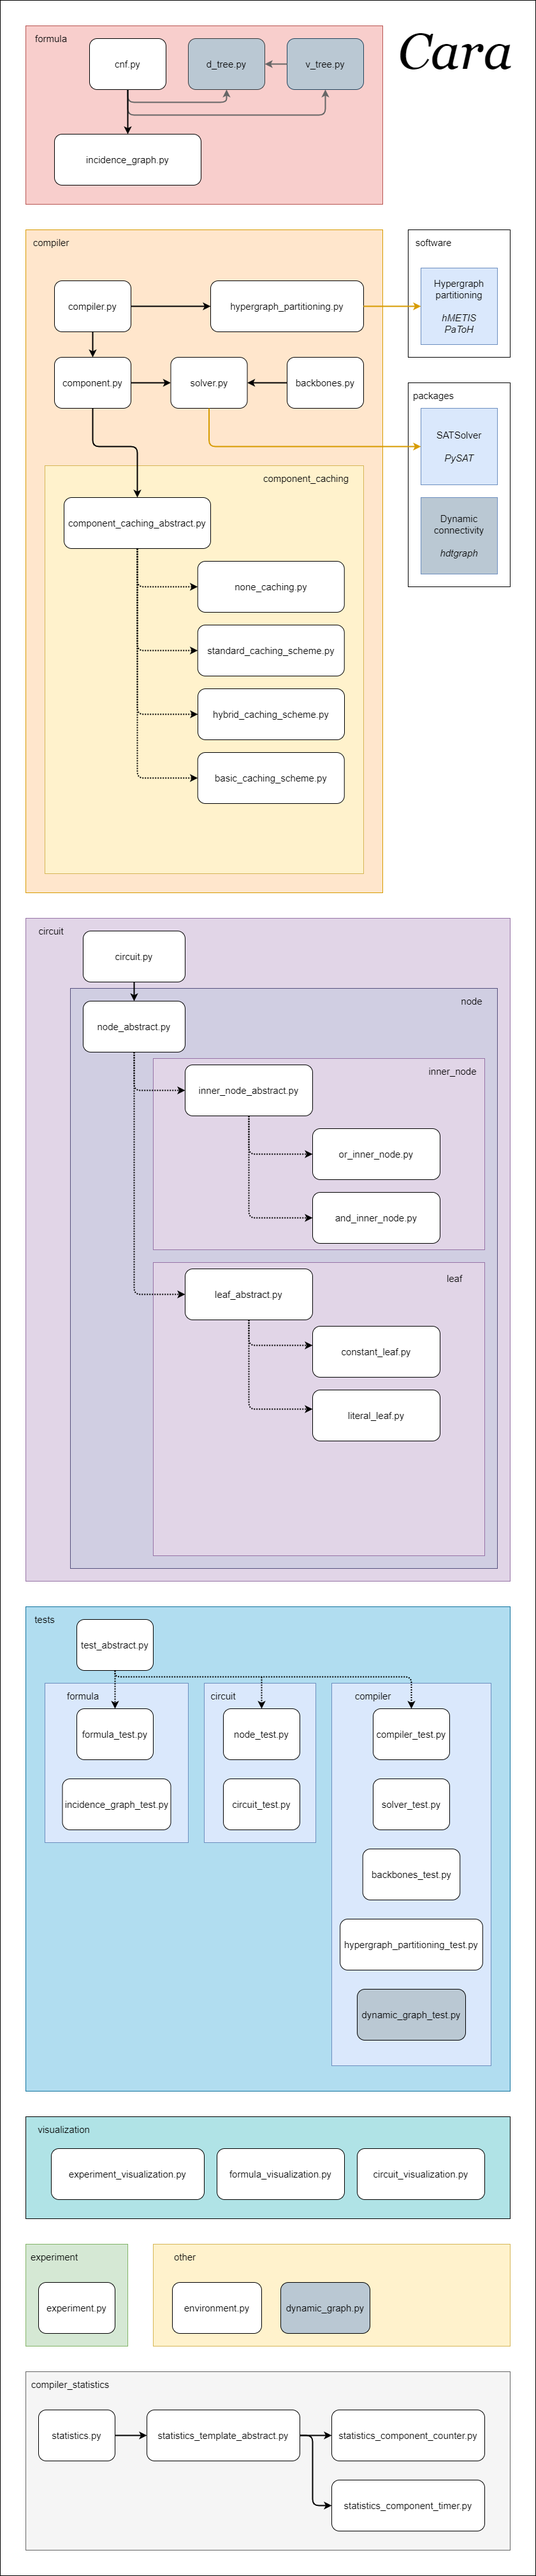
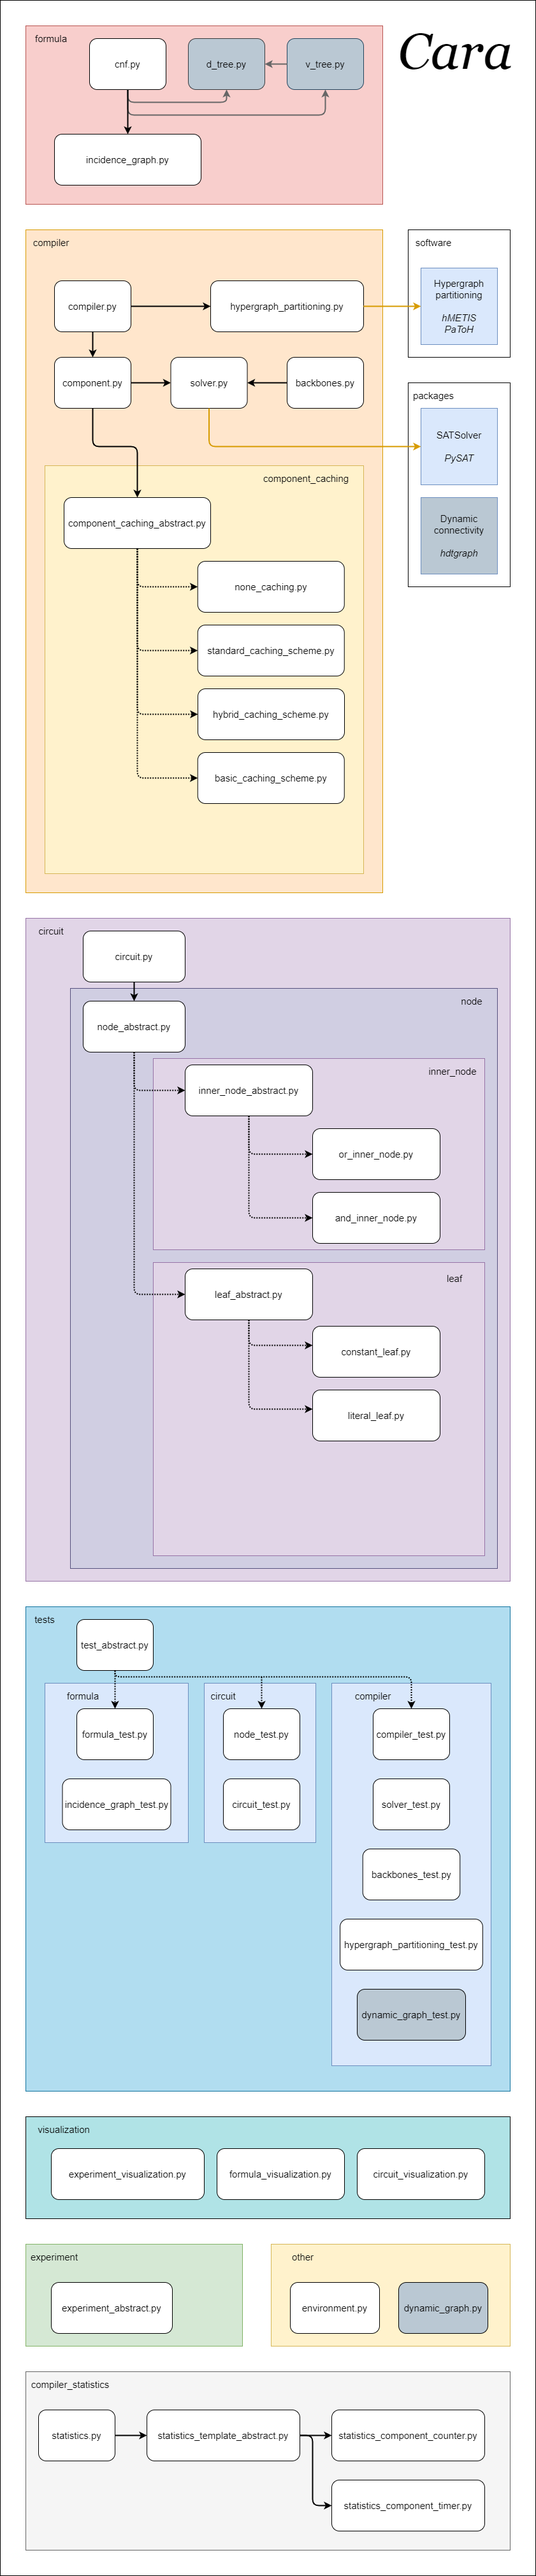
experiment_abstract.py

Changed region(s): [[0.2164, 0.8731, 0.7111, 0.9354], [0.742, 0.8731, 0.9275, 0.9042], [0.0618, 0.8731, 0.1237, 0.9042]]

diff --git a/experiment/experiment_abstract.py b/experiment/experiment_abstract.py
@@ -1,0 +1,218 @@
+# Import
+import os
+import pickle
+import ctypes
+import warnings
+import threading
+from abc import ABC
+from pathlib import Path
+from datetime import timedelta
+from compiler.compiler import Compiler
+from typing import List, Tuple, Union, TypeVar
+from compiler_statistics.statistics import Statistics
+
+# Import exception
+import exception.cara_exception as c_exception
+
+# Import enum
+import compiler.enum.sat_solver_enum as ss_enum
+import compiler.enum.implied_literals_enum as il_enum
+import compiler.component_caching.component_caching_enum as cc_enum
+import compiler.enum.hypergraph_partitioning.hypergraph_partitioning_cache_enum as hpc_enum
+import compiler.enum.hypergraph_partitioning.hypergraph_partitioning_software_enum as hps_enum
+import compiler.enum.hypergraph_partitioning.hypergraph_partitioning_weight_type_enum as hpwt_enum
+import compiler.enum.hypergraph_partitioning.hypergraph_partitioning_variable_simplification_enum as hpvs_enum
+
+# Type
+TExperimentThread = TypeVar("TExperimentThread", bound="ExperimentThread")
+
+
+class ExperimentAbstract(ABC):
+    """
+    Experiment
+    """
+
+    """
+    Private bool save_circuit
+    Private str experiment_name
+    Private timedelta total_time
+    Private Path log_directory_path
+    Private timedelta timeout_experiment
+    
+    Protected List<Tuple<str, str>> files
+    """
+
+    def __init__(self, experiment_name: str, directory_path: [str, Path], timeout_experiment: Union[timedelta, None] = None,
+                 log_directory_path: Union[str, Path, None] = None, save_circuit: bool = False):
+        self.__save_circuit: bool = save_circuit
+        self.__experiment_name: str = experiment_name
+        self.__total_time: timedelta = timedelta()  # initialization
+        self.__timeout_experiment: Union[timedelta, None] = timeout_experiment
+
+        # Log
+        if log_directory_path is not None:
+            if isinstance(log_directory_path, str):
+                self.__log_directory_path: Path = Path(log_directory_path)
+            else:
+                self.__log_directory_path: Path = log_directory_path
+        else:
+            self.__log_directory_path: Path = Path(os.path.join(directory_path, self.__experiment_name))
+        print(self.__log_directory_path)
+        self.__log_directory_path.mkdir(parents=True, exist_ok=True)
+
+        # Get all files in the directory
+        if isinstance(directory_path, str):
+            directory_path = Path(directory_path)
+        self._files: List[Tuple[str, str]] = self.__get_files(directory_path)
+
+    # region Protected method
+    def _experiment(self,
+                    file_name: str, file_path: str,
+                    smooth: bool,
+                    ub_factor: float,
+                    subsumed_threshold: Union[int, None],
+                    new_cut_set_threshold: float,
+                    sat_solver_enum: ss_enum.SatSolverEnum,
+                    implied_literals_enum: il_enum.ImpliedLiteralsEnum,
+                    component_caching_enum: cc_enum.ComponentCachingEnum,
+                    hp_cache_enum: hpc_enum.HypergraphPartitioningCacheEnum,
+                    hp_software_enum: hps_enum.HypergraphPartitioningSoftwareEnum,
+                    hp_node_weight_type_enum: hpwt_enum.HypergraphPartitioningNodeWeightEnum,
+                    hp_hyperedge_weight_type_enum: hpwt_enum.HypergraphPartitioningHyperedgeWeightEnum,
+                    hp_variable_simplification_enum: hpvs_enum.HypergraphPartitioningVariableSimplificationEnum,
+                    hp_limit_number_of_clauses_cache: Tuple[Union[int, None], Union[int, None]] = (None, None),
+                    hp_limit_number_of_variables_cache: Tuple[Union[int, None], Union[int, None]] = (None, None)) -> \
+            Tuple[bool, bool, Union[int, None], Statistics]:
+        """
+        :return: (timeout exceeded, exception, size of the circuit, statistics)
+        """
+
+        print(f"File name: {file_name}")
+
+        compiler = Compiler(cnf=file_path,
+                            smooth=smooth,
+                            ub_factor=ub_factor,
+                            subsumed_threshold=subsumed_threshold,
+                            new_cut_set_threshold=new_cut_set_threshold,
+                            sat_solver_enum=sat_solver_enum,
+                            implied_literals_enum=implied_literals_enum,
+                            component_caching_enum=component_caching_enum,
+                            hp_cache_enum=hp_cache_enum,
+                            hp_software_enum=hp_software_enum,
+                            hp_node_weight_type_enum=hp_node_weight_type_enum,
+                            hp_hyperedge_weight_type_enum=hp_hyperedge_weight_type_enum,
+                            hp_variable_simplification_enum=hp_variable_simplification_enum,
+                            hp_limit_number_of_clauses_cache=hp_limit_number_of_clauses_cache,
+                            hp_limit_number_of_variables_cache=hp_limit_number_of_variables_cache)
+
+        experiment_thread: TExperimentThread = self.__ExperimentThread(compiler)
+        thread = threading.Thread(target=self.__experiment, args=(experiment_thread,))
+        thread.start()
+
+        if self.__timeout_experiment is not None:
+            thread.join(timeout=self.__timeout_experiment.total_seconds())
+        else:
+            thread.join()
+
+        # Timeout exceeded
+        if thread.is_alive():
+            ctypes.pythonapi.PyThreadState_SetAsyncExc(thread.native_id, ctypes.py_object(TimeoutError))
+            thread.join()
+
+            self.__total_time += self.__timeout_experiment
+        else:
+            statistics: Statistics = experiment_thread.compiler.statistics
+
+            self.__total_time += statistics.compiler_statistics.get_time()  # compiler
+            self.__total_time += statistics.cnf_statistics.get_time()       # CNF
+
+        timeout_exceeded: bool = experiment_thread.timeout_exceeded
+        exception: bool = False if experiment_thread.exception is None else True
+        size: Union[int, None] = None if timeout_exceeded or exception else experiment_thread.compiler.circuit.size
+        statistics: Statistics = experiment_thread.compiler.statistics
+
+        if exception:
+            print(f"Error: {experiment_thread.exception}")
+        else:
+            if timeout_exceeded:
+                print("Timeout exceeded")
+            else:
+                print(f"Done ({str(statistics.compiler_statistics.get_time())})")
+        print()
+
+        # Log - directory
+        directory_path_temp: Path = Path(os.path.join(self.__log_directory_path, file_name))
+        directory_path_temp.mkdir(exist_ok=True)
+
+        # Log - statistics
+        statistics_path_temp: Path = Path(os.path.join(directory_path_temp, "statistics.pkl"))
+        with open(statistics_path_temp, "wb") as file:
+            pickle.dump(statistics, file, pickle.HIGHEST_PROTOCOL)
+        statistics_path_temp: Path = Path(os.path.join(directory_path_temp, "statistics.stat"))
+        with open(statistics_path_temp, "w", encoding="utf8") as file:
+            file.write(str(statistics))
+
+        # Log - circuit
+        if self.__save_circuit and (not timeout_exceeded) and (not exception):
+            circuit_path_temp = Path(os.path.join(directory_path_temp, "circuit.nnf"))
+            with open(circuit_path_temp, "w", encoding="utf8") as file:
+                file.write(str(experiment_thread.compiler.circuit))
+
+        del experiment_thread
+        del compiler
+
+        return timeout_exceeded, exception, size, statistics
+    # endregion
+
+    # region Static method
+    @staticmethod
+    def __get_files(directory_path: Path) -> List[Tuple[str, str]]:
+        """
+        Return a list of all files (name, path) in the directory (directory_path)
+        :return: a list of files
+        """
+
+        # Check if the directory exists
+        if not directory_path.exists():
+            warnings.warn("Directory doesn't exist!", category=UserWarning)
+            return []
+
+        return [(file, file_path) for file in os.listdir(directory_path)
+                if (os.path.isfile(file_path := os.path.join(directory_path, file)))]
+
+    @staticmethod
+    def __experiment(experiment_thread: TExperimentThread):
+        try:
+            experiment_thread.compiler.create_circuit()
+        # Timeout exceeded
+        except TimeoutError:
+            experiment_thread.timeout_exceeded = True
+        except c_exception.CaraException as err:
+            experiment_thread.exception = err
+    # endregion
+
+    # region Property
+    @property
+    def experiment_name(self):
+        return self.__experiment_name
+
+    @property
+    def log_directory_path(self):
+        return self.__log_directory_path
+
+    @property
+    def total_time(self):
+        return self.__total_time
+    # endregion
+
+    class __ExperimentThread:
+        """
+        Public Compiler compiler
+        Public bool timeout_exceeded
+        Public Exception exception
+        """
+
+        def __init__(self, compiler: Compiler):
+            self.compiler: Compiler = compiler
+            self.timeout_exceeded: bool = False
+            self.exception: [Exception, None] = None

diff --git a/test.py b/test.py
@@ -1,8 +1,7 @@
-# Import
-import time
-from formula.cnf import Cnf
-from circuit.circuit import Circuit
-from compiler.compiler import Compiler
+from pathlib import Path
+import os
+from datetime import timedelta
+from experiment.experiment_abstract import ExperimentAbstract
 
 # Import enum
 import compiler.enum.sat_solver_enum as ss_enum
@@ -13,35 +12,26 @@ import compiler.enum.hypergraph_partitioning.hypergraph_partitioning_software_en
 import compiler.enum.hypergraph_partitioning.hypergraph_partitioning_weight_type_enum as hpwt_enum
 import compiler.enum.hypergraph_partitioning.hypergraph_partitioning_variable_simplification_enum as hpvs_enum
 
-# path = r"D:\Storage\OneDrive\Škola\Vysoká škola\UK\Diplomová práce\Program\Cara\tests\formula\cnf\CNF_formulae\no_comments_valid.cnf"
-# path = r"D:\Storage\OneDrive\Škola\Vysoká škola\UK\SAT benchmarks\D4\Handmade\LatinSquare\qg2-08.cnf"
-# path = r"D:\Storage\OneDrive\Škola\Vysoká škola\UK\Diplomová práce\Program\Cara\tests\formula\cnf\CNF_formulae\large_cnf_valid.cnf"
-
-# path = r"D:\Storage\OneDrive\Škola\Vysoká škola\UK\SAT benchmarks\D4\Handmade\LatinSquare\qg4-09.cnf"
+dictionary_path = r"D:\Storage\OneDrive\Škola\Vysoká škola\UK\Diplomová práce\Program\Cara\tests\formula\cnf\CNF_formulae"
 path = r"D:\Storage\OneDrive\Škola\Vysoká škola\UK\SAT benchmarks\D4\qif\sum.32.cnf"
-start_time = time.time()
+name = "sum.32.cnf"
+p = r"D:\Storage\OneDrive\Škola\Vysoká škola\UK\Diplomová práce\Program\Cara\temp"
+timeout_experiment = timedelta(seconds=10)
 
-# cnf = Cnf(path)
-
-compiler = Compiler(path, smooth=False, ub_factor=0.1, new_cut_set_threshold=0.1, subsumed_threshold=1000,
-                    sat_solver_enum=ss_enum.SatSolverEnum.MiniSAT,
-                    implied_literals_enum=il_enum.ImpliedLiteralsEnum.BCP,
-                    component_caching_enum=cc_enum.ComponentCachingEnum.BASIC_CACHING_SCHEME,
-                    hp_cache_enum=hpc_enum.HypergraphPartitioningCacheEnum.ISOMORFISM,
-                    hp_software_enum=hps_enum.HypergraphPartitioningSoftwareEnum.HMETIS,
-                    hp_node_weight_type_enum=hpwt_enum.HypergraphPartitioningNodeWeightEnum.NONE,
-                    hp_hyperedge_weight_type_enum=hpwt_enum.HypergraphPartitioningHyperedgeWeightEnum.NONE,
-                    hp_variable_simplification_enum=hpvs_enum.HypergraphPartitioningVariableSimplificationEnum.EQUIV_SIMPL,
-                    hp_limit_number_of_clauses_cache=(None, 200),
-                    hp_limit_number_of_variables_cache=(None, 200))
-
-circuit = compiler.create_circuit()
-
-end_time = time.time()
+a = ExperimentAbstract(directory_path=dictionary_path, experiment_name="name", timeout_experiment=None, log_directory_path=p, save_circuit=False)
 
 
-print("Time: ", end_time-start_time)
-print(circuit.size)
-print("Number of models: ", circuit.model_counting(set(), set()))
+result = a._experiment(name, path, smooth=False, ub_factor=0.1, new_cut_set_threshold=0.1, subsumed_threshold=1000,
+                       sat_solver_enum=ss_enum.SatSolverEnum.MiniSAT,
+                       implied_literals_enum=il_enum.ImpliedLiteralsEnum.BCP,
+                       component_caching_enum=cc_enum.ComponentCachingEnum.BASIC_CACHING_SCHEME,
+                       hp_cache_enum=hpc_enum.HypergraphPartitioningCacheEnum.ISOMORFISM,
+                       hp_software_enum=hps_enum.HypergraphPartitioningSoftwareEnum.HMETIS,
+                       hp_node_weight_type_enum=hpwt_enum.HypergraphPartitioningNodeWeightEnum.NONE,
+                       hp_hyperedge_weight_type_enum=hpwt_enum.HypergraphPartitioningHyperedgeWeightEnum.NONE,
+                       hp_variable_simplification_enum=hpvs_enum.HypergraphPartitioningVariableSimplificationEnum.EQUIV_SIMPL,
+                       hp_limit_number_of_clauses_cache=(None, 200),
+                       hp_limit_number_of_variables_cache=(None, 200))
 
-print(compiler.statistics)
+print(result)
+print(a.total_time)

diff --git a/compiler_statistics/statistics_component_timer.py b/compiler_statistics/statistics_component_timer.py
@@ -1,7 +1,7 @@
 # Import
-import datetime
 import time as sys_time
 from typing import Union
+from datetime import timedelta
 
 # Import exception
 import exception.compiler_statistics.statistics_exception as s_exception
@@ -93,7 +93,7 @@ class StatisticsComponentTimer:
 
     # region Static method
     @staticmethod
-    def convert_to_datetime(time: Union[float, None]) -> Union[datetime.timedelta, None]:
+    def convert_to_datetime(time: Union[float, None]) -> Union[timedelta, None]:
         """
         It is assumed that the time is in nanoseconds!
         """
@@ -101,7 +101,7 @@ class StatisticsComponentTimer:
         if time is None:
             return None
 
-        return datetime.timedelta(microseconds=time * 0.001)
+        return timedelta(microseconds=time * 0.001)
     # endregion
 
     # region Magic function

diff --git a/compiler_statistics/compiler/compiler_statistics.py b/compiler_statistics/compiler/compiler_statistics.py
@@ -1,4 +1,5 @@
 # Import
+from datetime import timedelta
 from compiler_statistics.statistics_component_timer import StatisticsComponentTimer
 from compiler_statistics.statistics_template_abstract import StatisticsTemplateAbstract
 
@@ -21,6 +22,15 @@ class CompilerStatistics(StatisticsTemplateAbstract):
 
         self.__smooth: StatisticsComponentTimer = StatisticsComponentTimer("smooth", True)
         self._component_list.append(self.__smooth)
+
+    # region Public method
+    def get_time(self) -> timedelta:
+        """
+        :return: the time of creating the circuit
+        """
+
+        return StatisticsComponentTimer.convert_to_datetime(self.__create_circuit.sum_time)
+    # endregion
 
     # region Property
     @property

diff --git a/compiler_statistics/formula/cnf_statistics.py b/compiler_statistics/formula/cnf_statistics.py
@@ -1,4 +1,5 @@
 # Import
+from datetime import timedelta
 from compiler_statistics.statistics_component_timer import StatisticsComponentTimer
 from compiler_statistics.statistics_template_abstract import StatisticsTemplateAbstract
 
@@ -17,6 +18,15 @@ class CnfStatistics(StatisticsTemplateAbstract):
 
         self.__create: StatisticsComponentTimer = StatisticsComponentTimer("create", True)
         self._component_list.append(self.__create)
+
+    # region Public method
+    def get_time(self) -> timedelta:
+        """
+        :return: the time of creating the CNF
+        """
+
+        return StatisticsComponentTimer.convert_to_datetime(self.__create.sum_time)
+    # endregion
 
     # region Property
     @property
